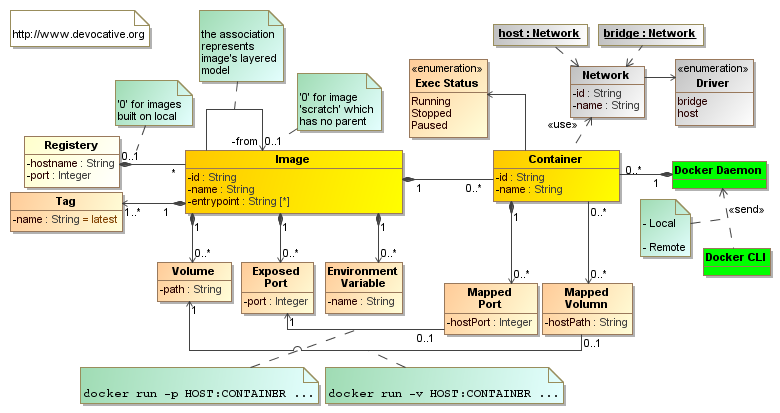
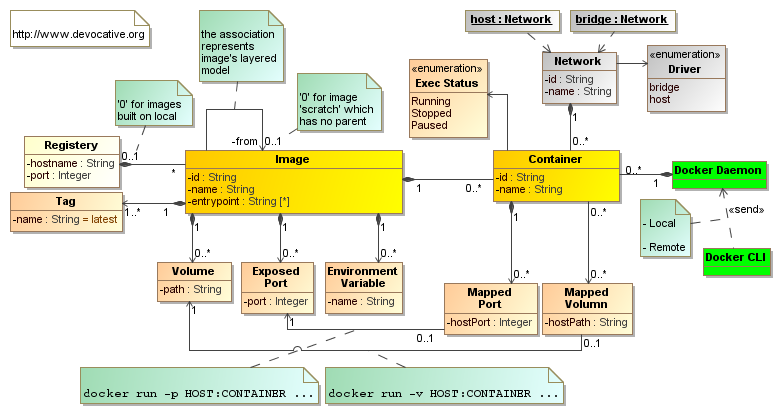
- update post

Changed region(s): [[0.5846, 0.0, 0.9846, 0.3196], [0.7385, 0.3196, 0.7692, 0.3487]]

diff --git a/_posts/2019-03-29-docker01.md b/_posts/2019-03-29-docker01.md
@@ -3,6 +3,7 @@ layout: post
 title: "Docker to the Point - Part 1"
 categories: article tech
 excerpt: Running containers by Docker
+update: 2019-04-05
 ---
 
 ## Introduction
@@ -27,14 +28,15 @@ For example, if you want to run a [MySQL](#mysql) server, Docker is the best cho
 GUI, virtualization is the only choice. 
 
 The following class diagram illustrates the overall parts involved in Docker installed on your box.
+The associations show the relations between these parts and multiplicity of each association end highlights the detail of that end in the relation. 
 
 ![DockerClassDiagram](/assets/images/docker/DockerCD.png)
 
 In a simple story, a container is started by the `docker daemon`, initiated by the `docker` client (command):
 - At first, the image is downloaded from the registry if not already downloaded
 - Docker can create one or another independent container from one image
-- During container startup, Docker executes the command(s) provided in its image or passed as input parameters
-- Docker initializes the container's network interface and may attach it to one of its virtual networks due to startup parameters ([example](#nginx--jenkins--nexus)), 
+- During container startup, Docker executes the command(s) provided in the image or passed as input parameters
+- Docker initializes the container's network interface and attaches it to one of its virtual networks due to startup parameters ([example](#nginx--jenkins--nexus)), 
 and even open a port on the host binding it to one of container's internal process
 - Docker may mount a file/directory to its internal file/directory due to startup parameters
 
@@ -46,7 +48,7 @@ App | Host/Node | Container
 `docker-compose` | single | using single config file for multiple related containers or same-image containers for load balancing
 Docker Swarm or Kubernetes | multiple | large deployment and centralized management for lots of containers
 
-The _docker-compose_ and _swarm_ will be addressed in other posts.
+This post only uses `docker`.
 
 ## Installation
 Docker is presented in two editions: **CE** (community edition) and **EE** (enterprise edition). Most of the time, people use its CE and also in the case of this tutorial.
@@ -61,6 +63,7 @@ After installation
 - In Linux, by default only `root` user can execute `docker` command. Adding group `docker` to a user's groups, the user has access to Docker.
 So execute `usermod -a -G docker USER`.
 - Executing `ifconfig` in your Linux box, `docker0` must be in the list of network interfaces.
+  ![DockerIfconfig](/assets/images/docker/DockerIfconfig.png)
 
 ## Docker CLI
 After installing Docker, the `docker` command must be in your path and can be executed from your OS CLI app.
@@ -118,7 +121,7 @@ Lets start real and practical examples.
   `-d` | the container is detached and executed in background
   `-v /opt/docker/mysql:/var/lib/mysql` | _HOST_`:`_CONTAINER_ for mapping volume, so `/var/lib/mysql` directory of container is mapped on `/opt/docker/mysql` directory of host
   `-p 3306:3306` | _HOST_`:`_CONTAINER_ for binding ports
-  `-e MYSQL_ROOT_PASSWORD=root` | assigning value `root` for environment variable `MYSQL_ROOT_PASSWORD`, so the password of _root_ user in mysql is set to `root`
+  `-e MYSQL_ROOT_PASSWORD=root` | assign value `root` to environment variable `MYSQL_ROOT_PASSWORD`, so the password of _root_ user in mysql is set to `root`
   `--restart=always` | on next host reboot or power-on, the container starts automatically (like services in Windows)
   `--name MySQL` | `MySQL` is assigned as the name to this container to be addressed easily (`CONTAINER` in above table, is this name).<br/>**note**: this name also used as network name for the container
   `mysql:5.7` | the `IMAGE` reference
@@ -162,7 +165,7 @@ Lets start real and practical examples.
   - `sys`@PDB
   > `docker container exec -it OracleDB /bin/bash -c "source /home/oracle/.bashrc; sqlplus sys/Oradoc_db1@ORCLPDB1 as sysdba"`
 
-  - Oracle 12c introduces a new architecture called **multitenant**. In this new architecture, a database instance consists of two main component
+  - Oracle 12c introduces a new architecture called **multitenant**. In this new architecture, a database instance consists of two main sections
     - A **container**, called _CDB_, which is the basis environment of the instance
     - One or more **pluggable DBs**, called _PDB_, which is an end-user database for applications (this image has only one PDB)
   - The PDB information of this image
@@ -196,12 +199,14 @@ Lets start real and practical examples.
     
     - Visit [localhost:8080/jenkins](http://localhost:8080/jenkins)
 
-### Nginx * Jenkins * Nexus
+### Nginx + Jenkins + Nexus
 Lets mix up things and create a little bit advanced example to highlight Docker networking.
 This practical example can be used as a basis for a CI (continuous integration) environment.
-Following picture shows the final result of the example.
+Following picture shows the final result of the example (note: the IPs can be different when you execute the example).
 
+<a name="nginx">
 ![Nginx](/assets/images/docker/Nginx.png)
+</a>
 
 The next script implements above picture:
 ```sh
@@ -248,21 +253,29 @@ docker container run -d \
  -v /opt/docker/nginx/nginx.conf:/etc/nginx/conf.d/default.conf \
  --network DokNet1 -p 80:80 \
  --restart=always --name Nginx nginx:1.15.10
+
 ```
 
 - Line 1 - Docker creates a virtual network, called `DokNet1`.
   - **Check it by executing `docker network inspect DokNet1`**
-  - After this command execution, a long string is printed on screen which is identifier of this network. Its first 12 characters is also unique and we call it `NET_ID`.
+  ![DockerNetInspect1](/assets/images/docker/DockerNetInspect1.png)
+  
+  - After this command execution, a long string is printed on screen which is identifier of this network. Its first 12 characters is also unique and we call it `NET_ID`.<br/>
+  ![DockerCreateNet](/assets/images/docker/DockerCreateNet.png)
+  
   - Executing `ifconfig`, it is in the list by the name of `br-NET_ID`
-- Option `--network DokNet1` attaches the container to `DokNet1` network, so all of the above containers are in the same network.
+  ![DockerIfconfig2](/assets/images/docker/DockerIfconfig2.png)
+  
+- Option `--network DokNet1` attaches the container to `DokNet1` network, so all of the above containers are in the same network ([picture](#nginx)).
 - Lines 17-38 create a config file for Nginx
-  - Line 27 - Nginx forward request to Nexus by calling `http://Nexus:8081/nexus/`, which restates the fact that containers can access each other by the name via network.
-  - Line 33 - It is the same as previous line for Jenkins 
-- Only Nginx has a binding port, and it is not necessary for Jenkins and Nexus to bind ports.
+  - Line 27 - Nginx forwards request to Nexus by calling `http://Nexus:8081/nexus/`, which restates the fact that containers can access each other by the name in the network.
+  - Line 33 - It is the same as previous line for Jenkins.
+- Only Nginx has a binding port. It is not necessary for Jenkins and Nexus to bind ports.
 - Accessing web apps
-  - Jenkins - [http://localhost/jenkins](localhost/jenkins)
-  - Nexus - [http://localhost/nexus](localhost/jenkins). Executing `curl -u admin:admin123 http://localhost/nexus/service/metrics/ping` is another way.
+  - Jenkins - [localhost/jenkins](http://localhost/jenkins)
+  - Nexus - [localhost/jenkins](http://localhost/nexus). Executing `curl -u admin:admin123 http://localhost/nexus/service/metrics/ping` is another way.
 - At the end, execute `docker network inspect DokNet1` again. You can see list of containers attached to this network.
+  ![DockerNetInspect2](/assets/images/docker/DockerNetInspect2.png)
 
 ## References
 [^docker_layer]: [Docker Layers Explained](https://dzone.com/articles/docker-layers-explained)
